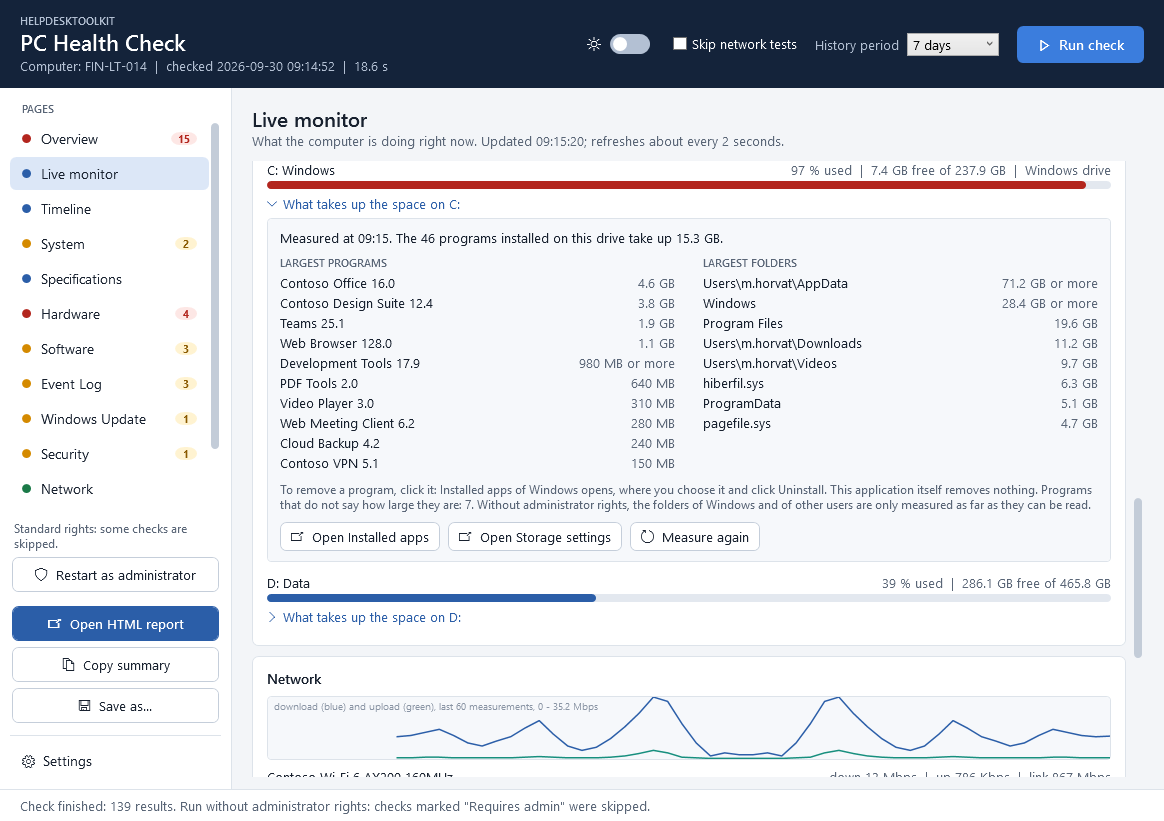
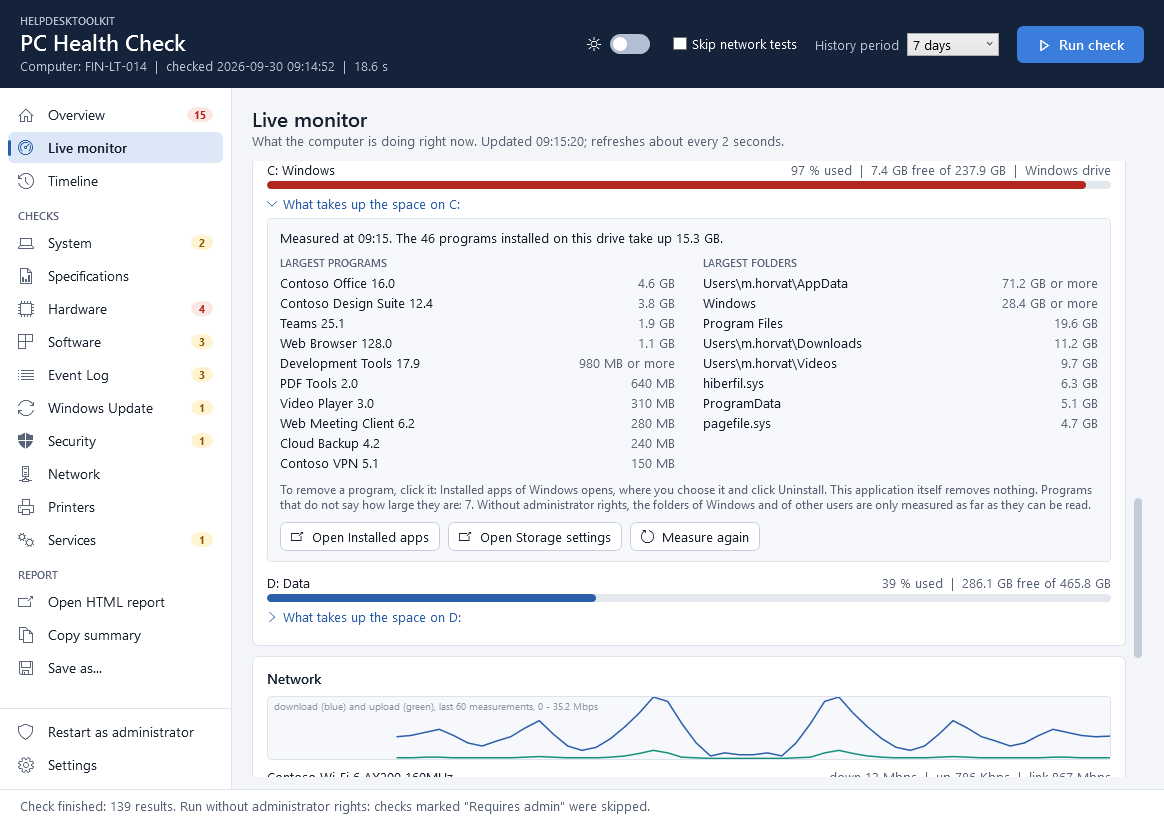
docs: describe the new side bar and renew the screenshots

Changed region(s): [[0.0, 0.335, 0.1856, 0.8222], [0.0, 0.1218, 0.2165, 0.5786], [0.0, 0.8526, 0.1546, 0.944]]

diff --git a/README.hr.md b/README.hr.md
@@ -107,8 +107,11 @@ povijesti) također se pamte do sljedećeg pokretanja.
   rušenja, neuspjela ažuriranja, plavi ekrani i neočekivana gašenja. Većina traženja
   kvara počinje s "prošli tjedan je radilo"; promjena koja je došla neposredno prije
   prvog kvara obično je uzrok. Filtar ostavlja samo probleme ili samo promjene.
-- **Kategorije** lijevo (System, Hardware, Network, ...) prikazuju sve što je
-  provjereno; točka i broj uz svaku pokazuju gdje su problemi.
+- **Bočna traka:** složena kao navigacija u Windowsu 11. Prvo dolaze stranice
+  aplikacije (Overview, Live monitor, Timeline), zatim kategorije provjere pod naslovom
+  *Checks*, svaka sa svojom ikonom; broj uz kategoriju je broj problema u njoj, crven
+  kad je neki od njih kritičan. Ispod su radnje za izvještaj, a na dnu administratorska
+  prava i postavke, koje u niskom prozoru ostaju vidljive dok se ostatak pomiče.
 - **Četiri stupca:** stranica kategorije prikazuje rezultate jedan do drugoga, po
   jedan stupac za svaki status: Info, OK, Warning, Critical. Svaka vrsta stoji za sebe,
   pa se problem ne može previdjeti među ostalim. Kartica prikazuje naziv provjere i

diff --git a/README.md b/README.md
@@ -106,8 +106,12 @@ number of days of history) are remembered for the next start as well.
   week" is where most troubleshooting starts; the change that came just before the
   first failure is usually the cause. A filter leaves only the problems or only the
   changes.
-- **Categories** on the left (System, Hardware, Network, ...) show everything that was
-  checked; the dot and the number next to each one show where the problems are.
+- **Side bar:** laid out like the navigation of Windows 11. The pages of the
+  application come first (Overview, Live monitor, Timeline), the check categories
+  under the heading *Checks*, each with an icon; the number next to a category is how
+  many problems it has, red when one of them is critical. Below them are the actions
+  for the report, and at the bottom the administrator rights and the settings, which
+  stay in view in a low window while the rest scrolls.
 - **Four columns:** the page of a category shows its results side by side, one column
   per status: Info, OK, Warning, Critical. Each kind stands by itself, so a problem
   cannot be overlooked among the rest. A card shows the name of the check and its

diff --git a/CHANGELOG.md b/CHANGELOG.md
@@ -55,6 +55,9 @@ The first public version. It will be released as 1.0.0.
 - Overview with the problems and their fixes, a health score from 0 to 100 and the
   changes since the previous check of the same computer.
 - A button next to a fix opens the page of Windows where the fix is made.
+- A side bar in the manner of Windows 11: an icon for every page, the check categories
+  under a heading of their own, a bar that marks the open page, the number of problems
+  per category, and the report actions, the rights and the settings below.
 - One page per category with its results in four columns, one per status (Info, OK,
   Warning, Critical); a click on a card opens its details. Search over all results
   and a filter by status. In every list, and in the report, the most severe results
